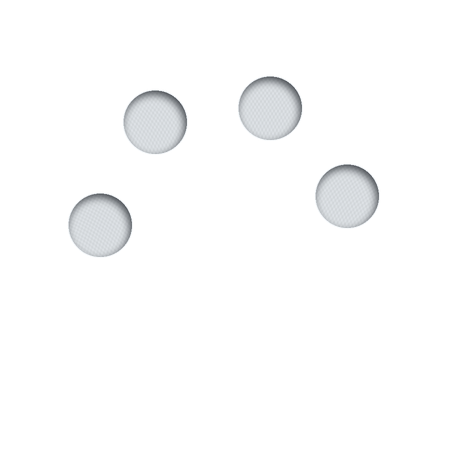
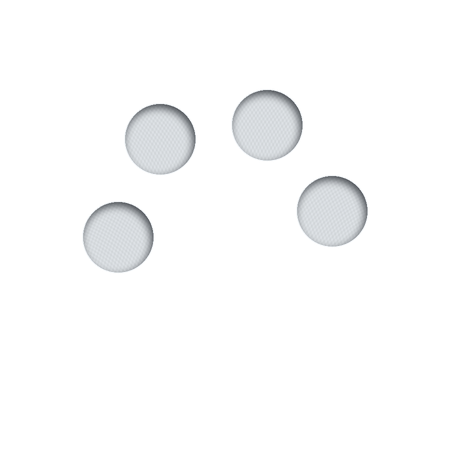
Move analog dials closer to center (R=108) with +9% larger bezels (rc=42.5) while preserving Option 2 equalized spacing (v3.7)

diff --git a/generate_clean_backgrounds_and_quad_chambers.py b/generate_clean_backgrounds_and_quad_chambers.py
@@ -1021,9 +1021,9 @@ for idx_bg, fname, hl, sl, vl, hd, sd, vd, floor_rgb, bev_lit_rgb, sub_base_f, s
 # ==============================================================================
 # GENERATE QUAD ARC OVERLAY & FACE PLATES (DARK, INVERT, & TEXTURES)
 # ==============================================================================
-centers = [(100, 225), (155, 122), (270, 108), (347, 196)]
-r_outer_c = 39.0
-r_inner_c = 31.5
+centers = [(118, 237), (160, 139), (267, 125), (332, 211)]
+r_outer_c = 42.5
+r_inner_c = 35.0
 
 # 1. Bezel overlay with transparent window
 hi_dials = Image.new('RGBA', (W, H), (0, 0, 0, 0))
@@ -1168,11 +1168,11 @@ for src_name, dark_out_name, inv_out_name, inv_polarity, contrast_str, base_dark
         # Pure solar moire sampled from clean interior rows 18..82, cols 10..270
         moire_clean = raw_arr[:, :, 3] / 255.0
         pat_alpha = np.zeros((450, 450), dtype=float)
-        for (cx_d, cy_d), x_off in zip(centers, [10, 70, 140, 200]):
+        for (cx_d, cy_d), x_off in zip(centers, [10, 75, 145, 215]):
             dist = np.sqrt((X_2d - cx_d)**2 + (Y_2d - cy_d)**2)
             mask_dial = dist <= r_inner_c + 1.0
-            y_idx = np.clip(18 + (Y_2d - (cy_d - 32)), 16, 85).astype(int)
-            x_idx = np.clip(x_off + (X_2d - (cx_d - 32)), 10, 275).astype(int)
+            y_idx = np.clip(18 + (Y_2d - (cy_d - 35)), 10, 96).astype(int)
+            x_idx = np.clip(x_off + (X_2d - (cx_d - 35)), 10, 300).astype(int)
             pat_alpha[mask_dial] = moire_clean[y_idx[mask_dial], x_idx[mask_dial]]
 
     dark_pure_op = pat_alpha * dark_scale * arc_mask_450
